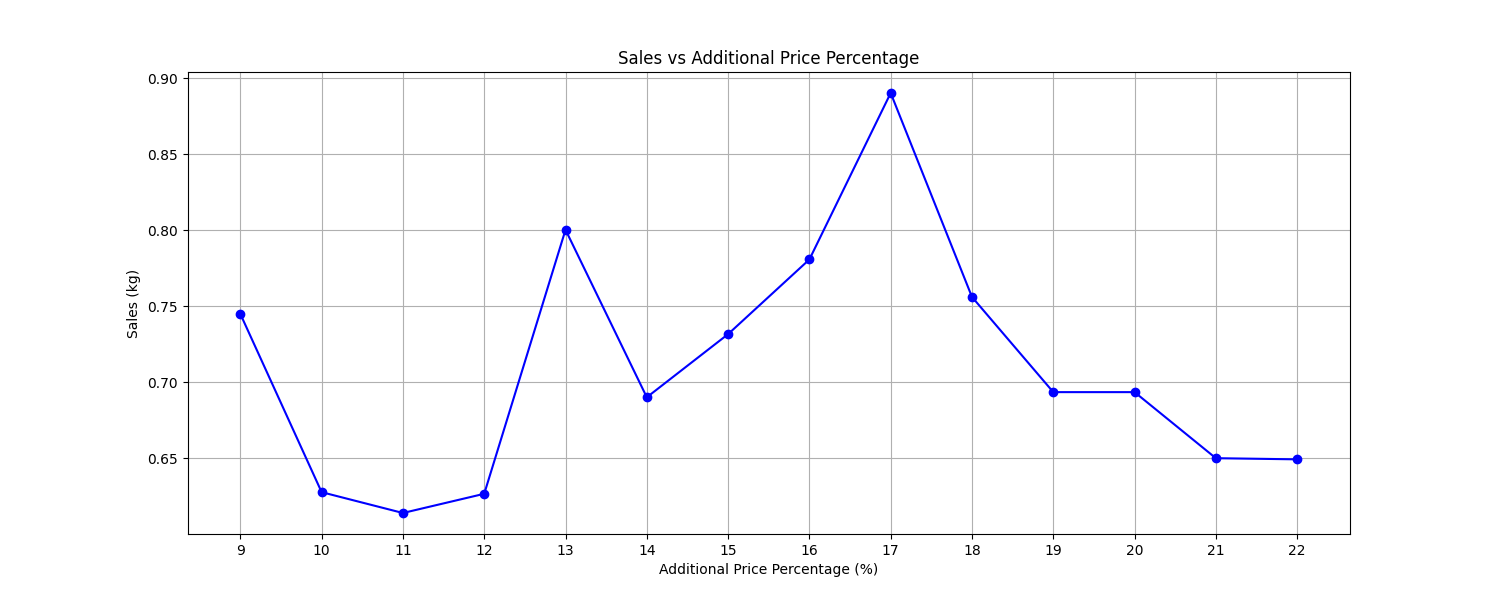
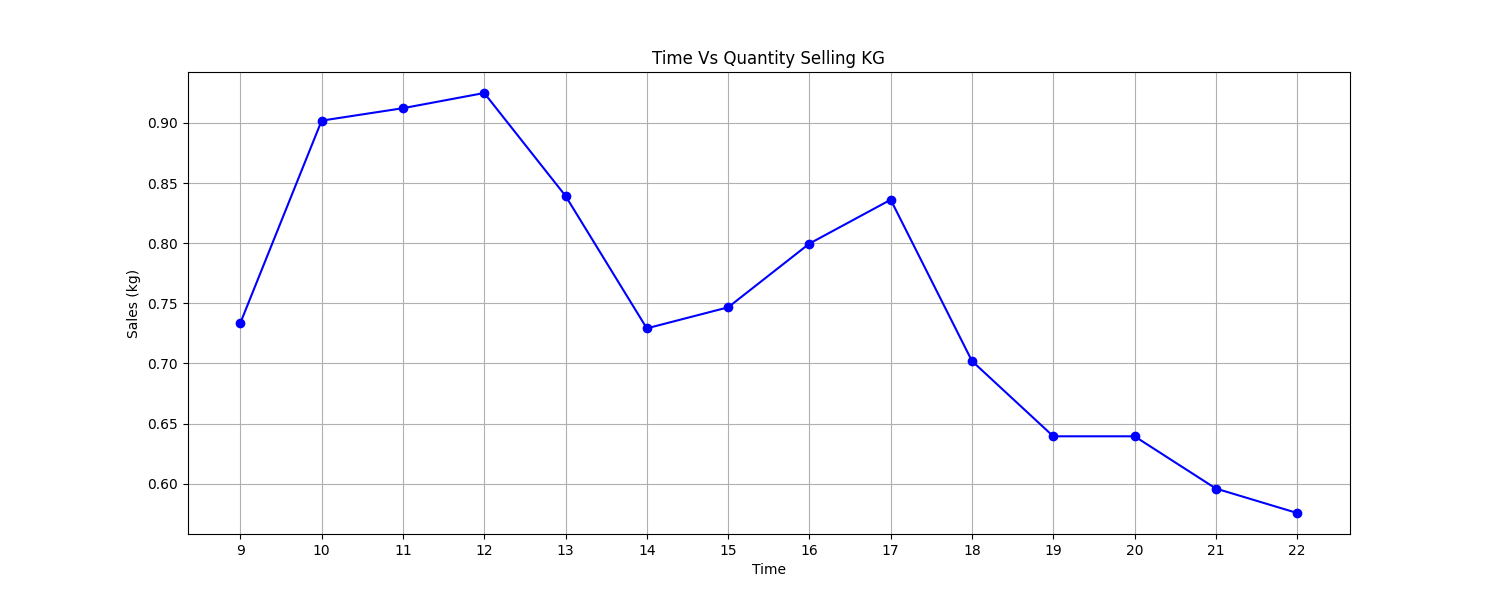
Finished time based component

diff --git a/web/templates/time_sales_plot.html b/web/templates/time_sales_plot.html
@@ -368,7 +368,7 @@
     <img src="../static/assets/images/time_vs_sales.png" width="1500" height="600">
     <br>
     <br>
-    <form action="/update_discount" method="post">
+    <form action="{{ url_for('time_sales_plot', item_id=item_id) }}" method="post">
       <label for="discount_rate" style="font-weight: bold;">Enter Discount Rate:</label>
       <input type="number" name="discount_rate" id="discount_rate" placeholder="Discount rate" style="padding: 8px; border: 1px solid #ccc; border-radius: 4px; margin-top: 5px;">
       <button type="submit" style="margin-top: 10px;">Watch</button>

diff --git a/web/app.py b/web/app.py
@@ -410,7 +410,7 @@ def time_sales():
     cursor.close()
     return render_template('time_forcasting.html', rows=rows)
 
-@app.route('/time_sales_plot/<int:item_id>')
+@app.route('/time_sales_plot/<int:item_id>', methods=['GET', 'POST'])
 def time_sales_plot(item_id):
     cursor = cnx.cursor()
     # %s --> placeholder for item_id (prevent from SQL injection)
@@ -426,6 +426,7 @@ def time_sales_plot(item_id):
 
 
     sales = []
+    dis_sales = []
 
     column_values = time_model_columns.values
 
@@ -465,6 +466,30 @@ def time_sales_plot(item_id):
         prediction = time_based_model.predict(input_data)
         print(prediction)
         sales.append(prediction[0])
+
+    if request.method == 'POST':
+        discount_rate = float(request.form['discount_rate'])
+        # Calculate discounted price
+        price_per_kg = float(Decimal(price_per_kg))
+        discounted_price =price_per_kg - (price_per_kg * (discount_rate / 100))
+        print(discounted_price)
+        input_data[0, unit_price_index] = discounted_price
+        for hour in hour_list:
+            input_data[0, time_index] = hour
+            # get predictions
+            prediction = time_based_model.predict(input_data)
+            print(prediction)
+            dis_sales.append(prediction[0])
+
+        plt.plot(hour_list, sales, marker='o', linestyle='-', color='b', label='Original Price')
+        # Plot sales with discounted price
+        plt.plot(hour_list, dis_sales, linestyle='--', color='r', label='Discounted Price')
+        # Add legend
+        plt.legend()
+        # Save the plot
+        plt.savefig('static/assets/images/time_vs_sales.png')
+        plt.close()
+        return render_template('time_sales_plot.html', item_id=item_id, item_name=item_name, category=category, price_per_kg=price_per_kg)
 
     # plot sales with discount percentage
     plt.figure(figsize=(15, 6))
